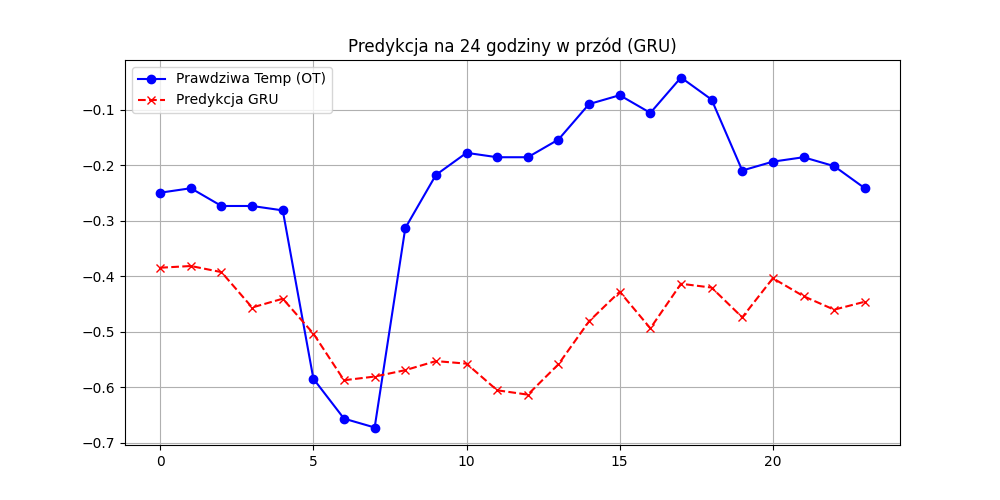
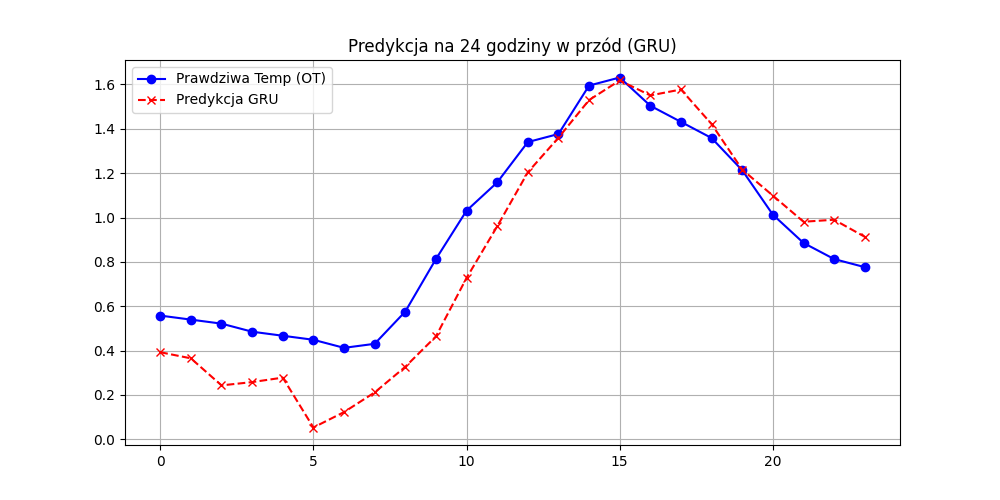
fine tunning

diff --git a/configs/config.py b/configs/config.py
@@ -1,18 +1,18 @@
 import torch
 
 # Parametry czasowe
-SEQ_LEN = 96        # 4 dni historii
+SEQ_LEN = 384        # 16 dni historii
 PRED_LEN = 24       # 1 dzień predykcji
 
 # Hiperparametry modelu i uczenia
 BATCH_SIZE = 64
-EPOCHS = 10         # 10 epok na uczenie - można zmienić tylko będzie więcej mielić
+EPOCHS = 20         # 10 epok na uczenie - można zmienić tylko będzie więcej mielić
 LEARNING_RATE = 0.001 # tak samo tu, sprawdzimy i poprawimy
 HIDDEN_DIM = 64
-NUM_LAYERS = 2      # Dwie warstwy GRU dla lepszego wyłapywania wzorców
+NUM_LAYERS = 2     # Dwie warstwy GRU dla lepszego wyłapywania wzorców
 
 # Ścieżki
-DATA_PATH = "data/raw/ETTh1.csv"
+DATA_PATH = "data/raw/ETTh2.csv"
 MODEL_SAVE_PATH = "saved_models/gru_forecaster.pth"
 
 # wybor urzadzenia do obliczen - cpu lub gpu jezeli dziala na nim cuda

diff --git a/src/models/gru_model.py b/src/models/gru_model.py
@@ -1,7 +1,7 @@
 import torch.nn as nn
 
 class GRUForecaster(nn.Module):
-    def __init__(self, input_dim=7, hidden_dim=64, output_dim=24, num_layers=2): # [64,24] wymiary
+    def __init__(self, input_dim=7, hidden_dim=128, output_dim=24, num_layers=2): # [64,24] wymiary
         super(GRUForecaster, self).__init__()
         
         # Warstwa GRU (batch_first=True oznacza, że tensor ma kształt [batch, seq, feature])

diff --git a/src/training/trainer.py b/src/training/trainer.py
@@ -25,6 +25,7 @@ def train_model(model, train_loader, device, epochs, lr, save_path):
             
         avg_loss = total_loss / len(train_loader)
         print(f'Epoka [{epoch+1}/{epochs}] | Strata Treningowa (MSE): {avg_loss:.4f}')
+        
 
     # Zapis wag po skończeniu uczenia
     torch.save(model.state_dict(), save_path)

diff --git a/data/raw/data_tests.py b/data/raw/data_tests.py
@@ -1,0 +1,13 @@
+import matplotlib.pyplot as plt
+import pandas as pd
+
+df1 = pd.read_csv('data/raw/ETTm2.csv')
+
+
+df1.drop(columns=['date'], inplace=True) 
+
+korelacja = df1.corr()
+print(korelacja)
+
+
+

diff --git a/src/main.py b/src/main.py
@@ -1,4 +1,6 @@
 import torch
+import matplotlib
+matplotlib.use('Agg')  # Ustawienie backendu dla matplotlib, aby działał bez GUI
 import matplotlib.pyplot as plt
 
 # moduły
